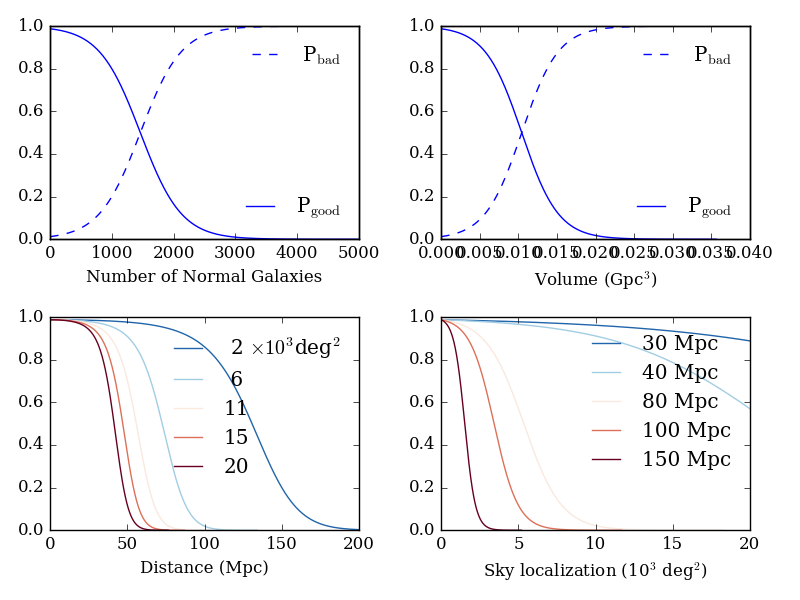
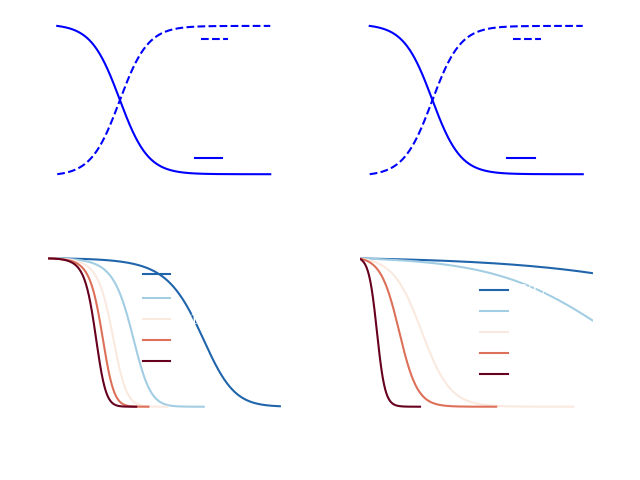
modified:   prob_ccsne.png 	modified:   prob_time.png 	modified:   prob_trigger.py

diff --git a/prob_trigger.py b/prob_trigger.py
@@ -1,7 +1,8 @@
 #!/usr/bin/env python
 # 2019
 # L. Strolger, STScI
-
+# a simple routine to help decide to execute a UDToO
+# for KNe possibly associated with neutron star GW event.
 #
 """
 prob_trigger.py [--options]
@@ -21,6 +22,7 @@ Options can be combined. There are some default values for testing
 
 import os,sys,pdb,scipy,glob
 from pylab import *
+from strolger_util import util as u
 
 d0 = 150 #Mpc
 q0 = 1000 #deg2
@@ -40,11 +42,16 @@ def sigmoid_sn(x,*p):
 
 
 def prob_confusion(d0, q0, verbose=True, plotit=True):
-    p0 = (1460, 1, -0.003, 0.)
-    p1 = (1460, 1, 0.003, 0.)
-    Ngal = q0 *pi**2/180**2*d0**2*0.14
+    p0 = (1460, 1, -0.003, 0.) #defines the sigmoid probablity function
+    p1 = (1460, 1, 0.003, 0.) #defines the sigmoid probablity function
+    local_grp_density = 2./14 #galaxies per Mpc^-3
+    ave_lum = 10**12 #in sol. lum
+    snu = 5 ## on average, SNe per Century per 10**12 L_sol
+    Ngal = q0 *pi**2/180**2*d0**2*local_grp_density
     Prob = sigmoid_sn(Ngal, *p0)
-    Nsn=Ngal/100*5/265*5
+    Nsn=Ngal*ave_lum*snu*1e-10*1e-2*5/365.
+
+    ## Nsn = Ngal/100*5/365*5
     Nlo=Nsn-Nsn/5*2
     Nhi=Nsn/5*10.-Nsn
     if verbose:print('Ngal=%.1f, Nsn=%.1f+%.1f-%.1f, Nprob=%.2f' %(Ngal, Nsn, Nhi, Nlo, Prob))
@@ -90,15 +97,23 @@ def prob_confusion(d0, q0, verbose=True, plotit=True):
         ax3.set_xlabel('Distance (Mpc)')
         ax4.set_xlabel(r'Sky localization (10$^3$ deg$^2$)')
         tight_layout()
-        ax1.legend(frameon=False, loc=4)
-        ax2.legend(frameon=False, loc=4)
-        ax5.legend(frameon=False, loc=1)
-        ax6.legend(frameon=False, loc=1)
-        ax3.legend(frameon=False)
-        ax4.legend(frameon=False)
+        lg1=ax1.legend(frameon=False, loc=4)
+        lg2=ax2.legend(frameon=False, loc=4)
+        lg5=ax5.legend(frameon=False, loc=1)
+        lg6=ax6.legend(frameon=False, loc=1)
+        lg3=ax3.legend(frameon=False)
+        lg4=ax4.legend(frameon=False)
         ax5.set_yticks([])
         ax6.set_yticks([])
-        savefig('prob_ccsne.png')
+
+        u.allblack2(ax1, lg1)
+        u.allblack2(ax2, lg2)
+        u.allblack2(ax3, lg3)
+        u.allblack2(ax4, lg4)
+        u.allblack2(ax5, lg5)
+        u.allblack2(ax6, lg6)
+        
+        savefig('prob_ccsne.png', transparent=True)
     return(Prob)
     
     
